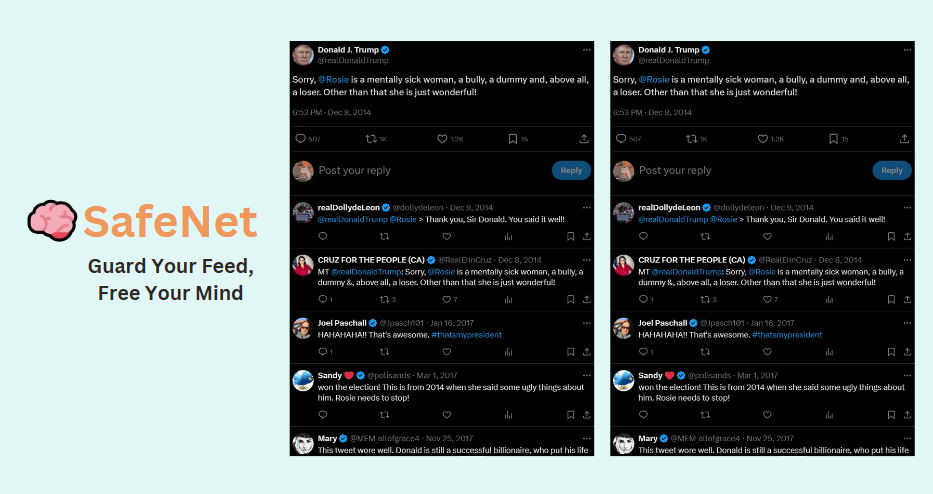
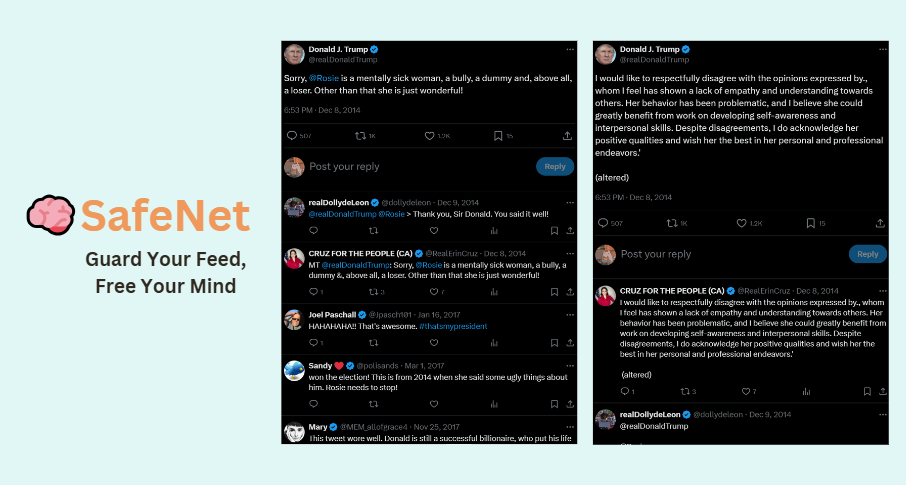
update pic.txt

diff --git a/backend/main.py b/backend/main.py
@@ -45,7 +45,7 @@ def predict():
     # Call your prediction function
     response = predict_ner_tags(sentence)
 
-    if count_unfair + count_Stereo > 5:
+    if count_unfair + count_Stereo > 3:
         # Generate your replacement text
         replacement_text = "Rephrased text"
     else:
